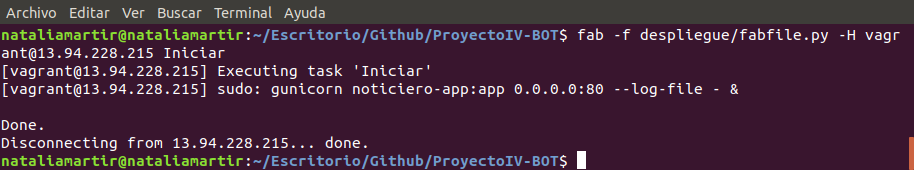
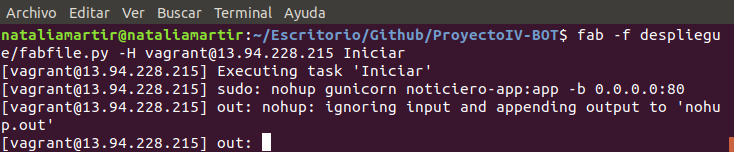
Modificada documentacion close #60

Changed region(s): [[0.0, 0.0263, 1.0, 0.6316], [0.0, 0.6579, 0.9891, 1.0], [0.9891, 0.7895, 1.0, 1.0]]

diff --git a/doc-despliegue.md b/doc-despliegue.md
@@ -16,9 +16,9 @@ A continuación tendremos que crear un grupo de recursos que más tarde especifi
 ![](https://github.com/natalia2911/ProyectoIV-BOT/blob/master/img/gruporecursos.png)
 
 Ahora procedemos a crear el servicio principal (Explicado en pasos posteriores)
-Seleccionamos nuestra subscripción, en este caso la proporcionada por el profesor, para el hito 5:
+Seleccionamos nuestra suscripción, en este caso la proporcionada por el profesor, para el hito 5:
 
-`az account set --subscription <ID SUBSCRIPCIÓN>`
+`az account set --subscription <ID SUSCRIPCIÓN>`
 
 ##  Máquina Virtual: Vagrant
 
@@ -88,7 +88,7 @@ vagrant box add noticieroapp https://github.com/azure/vagrant-azure/raw/v2.0/dum
 
 - **config.vm.box_url**: especificamos el dummy box que nos proporcionará una base para nuestra máquina virtual.
 - **config.ssh.private_key_path**: especificamos la clave para la conexión mediante ssh de la máquina.
-- **config.vm.provider :azure do |noticiero, override|**: Aquí vamos a proceder a indicar la configuración de la máquina, o el proveedor, donde vamos a crear el host de nuestra máquina virtual.  Especificamos con un string el nombre del proveedor en nuestro caso *Azure* y las dos variables que tenemos que son *noticiero* para hacer referencia a los diferentes parametros de configuración, y *override* la cual es necesaria para sobreescribir la aplicación.
+- **config.vm.provider :azure do |noticiero, override|**: Aquí vamos a proceder a indicar la configuración de la máquina, o el proveedor, donde vamos a crear el host de nuestra máquina virtual.  Especificamos con un string el nombre del proveedor en nuestro caso *Azure* y las dos variables que tenemos que son *noticiero* para hacer referencia a los diferentes parámetros de configuración, y *override* la cual es necesaria para sobrescribir la aplicación.
 - (Dentro de la configuración mencionada anteriormente tenemos) -->
 
 		noticiero.tenant_id = ENV['AZURE_TENANT_ID']  
@@ -111,7 +111,7 @@ vagrant box add noticieroapp https://github.com/azure/vagrant-azure/raw/v2.0/dum
 			export AZURE_CLIENT_SECRET="valor"
 			export AZURE_SUBSCRIPTION_ID="valor"
 	Para que estas variables se queden de modo permanente tendremos que ponerlas en el archivo : `.bashrc`
--	**noticiero.vm_size**: tamaño de los recursos de Azure, en nuestro caso hemos elegido *Standard_A0* ya que es uno de los más básicos y báratos, y se adapta a nuestra necesidades. Tiene 1 core, 0.75 GiB y cuesta 0.02$/hora. Tenemos más aquí : https://azureprice.net/ los podemos elegir también dependiendo de la localización de las granjas.
+-	**noticiero.vm_size**: tamaño de los recursos de Azure, en nuestro caso hemos elegido *Standard_A0* ya que es uno de los más básicos y baratos, y se adapta a nuestra necesidades. Tiene 1 core, 0.75 GiB y cuesta 0.02$/hora. Tenemos más aquí : https://azureprice.net/ los podemos elegir también dependiendo de la localización de las granjas.
 -	**noticiero.location**: localización donde queremos el host, o la granja de servidores donde nos van a asignar la máquina.
 - **noticiero.tcp_endpoints** : especificamos el puerto 80, que es el que abrimos, por que de momento, solo vamos a usar este.
 -	**noticiero.vm_name**: nombre de la máquina virtual.
@@ -142,7 +142,7 @@ Crearemos el archivo de provisionamiento para la máquina, donde tendremos todo 
 
   - name: Instalar Python
     become: true
-    command: apt-get install python3
+    command: apt-get install python3 python
 
   - name: Instalar Pip
     become: true
@@ -154,6 +154,9 @@ Crearemos el archivo de provisionamiento para la máquina, donde tendremos todo 
 
   - name: Actualizar pip
     command: pip3 install --upgrade pip
+
+  - name: Instalar Requerimientos
+    command: pip3 install -r ProyectoIV-BOT/requirements.txt
 
 
 ```
@@ -169,6 +172,15 @@ En el caso en que nuestro **playbook.yml** no se haya ejecutado a la hora de cre
 
 `vagrant provision
 `
+Vamos a proceder a explicar, lo que hemos incluido en nuestro fichero:
+  - **Actualizacion** : realizamos una actualización del sistema
+  -  **Instalar Python** : instalamos tanto python como python3
+  - **Instalar Pip**: instalamos pip3 y una serie de extras de python
+  - **Instalar Git**: instalamos git para que luego podamos clonar el repositorio
+  - **Actualizar pip**: actualizamos pip
+  - **Instalar Requerimientos**: los requerimientos necesarios para la máquina como gunicorn, o flask entre otros..
+
+Como podemos ver en algunas partes usamos *become* esto es para evitar que tener que usar sudo.
 
 
 ## Despliege : Fabfile
@@ -177,8 +189,6 @@ En el caso en que nuestro **playbook.yml** no se haya ejecutado a la hora de cre
 ```
 from fabric.api import *
 from fabric.contrib.console import confirm
-import os
-
 
 # Definimos una variable de entorno con el host al que nos vamos a conectar
 # y el nombre de usuario
@@ -205,18 +215,21 @@ def Actualizar():
 
 
 def Iniciar():
-	#Iniciamos el servicio
-	with cd("ProyectoIV-BOT/src/"):
-		sudo("gunicorn noticiero-app:app 0.0.0.0:80 --log-file - &")
+	with cd("ProyectoIV-BOT/src"):
+		sudo('nohup gunicorn noticiero-app:app -b 0.0.0.0:80')
+
 ```
  Las tareas que puede realizar es conectarse al servidor remoto, actualizar el repositorio, borrar los datos del código antiguo..
 
 Las funciones que hemos definido son:
 
- - Desinstalar: borra todo el repositorio, el código anterior
- - Instalar: se instala la aplicación
- - Iniciar: lanza la aplicación y la ejecuta en segundo plano.
- - Actualizar : actualiza la aplicación, haciéndole un pull al repositorio, y volviendo a instalar los requerimientos
+- **Desinstalar**: borra todo el repositorio, el código anterior
+
+ - **Instalar**: se instala la aplicación
+
+ - **Iniciar**: lanza la aplicación y la ejecuta en segundo plano. En esta parte veremos que hemos usado *nohup*, esto sirve para que se mantengan las tareas que lazamos y no se maten al acabarse el fabfile.
+
+ - **Actualizar** : actualiza la aplicación, haciéndole un pull al repositorio, y volviendo a instalar los requerimientos
 
 ![](https://github.com/natalia2911/ProyectoIV-BOT/blob/master/img/desinstalar.png)
 ![](https://github.com/natalia2911/ProyectoIV-BOT/blob/master/img/instalar.png)
@@ -256,6 +269,6 @@ http://docs.fabfile.org/en/1.14/tutorial.html
 **Vagrantfile**
 https://www.rubydoc.info/gems/vagrant-azure/1.3.0
 
-**Ansible : Playbook**
+**Playbook**
 https://blog.deiser.com/es/primeros-pasos-con-ansible
 https://stackoverrun.com/es/q/7574013
